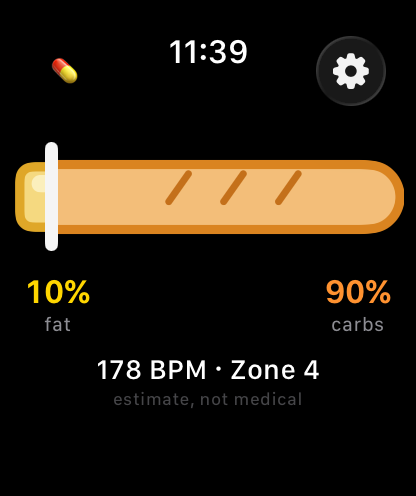
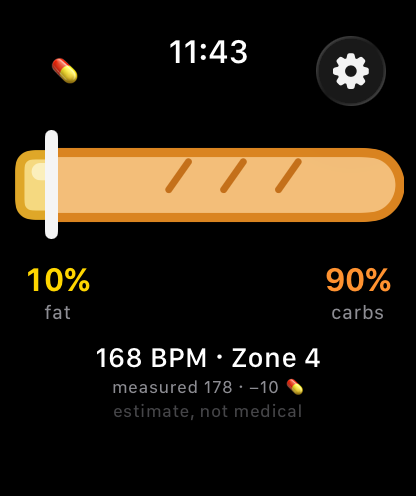
Show effort HR primary, measured HR secondary in medication mode
The zone is computed from the offset-adjusted HR, so display that as the
primary "BPM · Zone" line for consistency. When medication mode is on, add a
smaller secondary line with the raw measured HR and the applied offset.
Refresh the hard-effort App Store screenshot to match.

diff --git a/burnzone-ui Watch App/ContentView.swift b/burnzone-ui Watch App/ContentView.swift
@@ -117,9 +117,14 @@ struct ContentView: View {
             .padding(.horizontal, 6)
 
             VStack(spacing: 1) {
-                if let bpm = health.heartRate {
-                    Text("\(Int(bpm.rounded())) BPM · Zone \(zone ?? 1)")
+                if let effort = effortHR {
+                    Text("\(Int(effort.rounded())) BPM · Zone \(zone ?? 1)")
                         .font(.footnote.weight(.medium))
+                }
+                if medOffsetEnabled, let measured = health.heartRate {
+                    Text("measured \(Int(measured.rounded())) · −\(Int(medOffset)) 💊")
+                        .font(.system(size: 9))
+                        .foregroundStyle(.secondary)
                 }
                 Text("estimate, not medical")
                     .font(.system(size: 9))